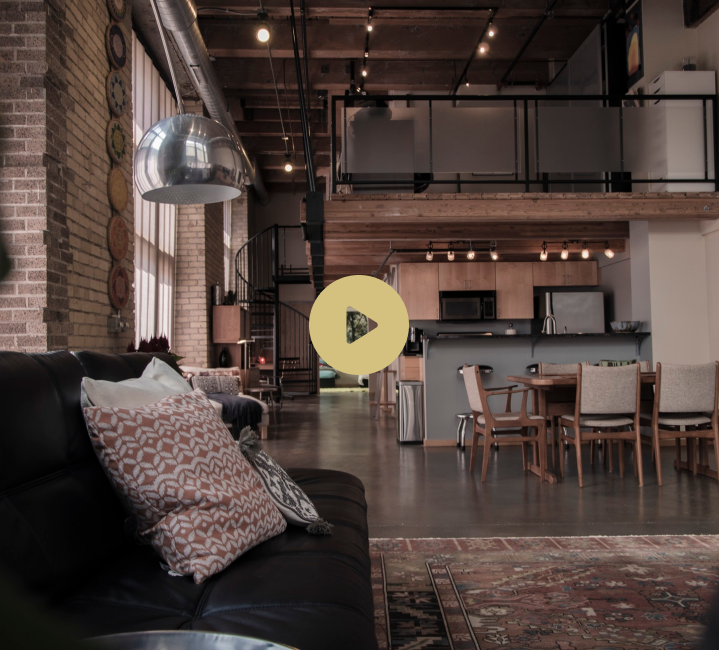
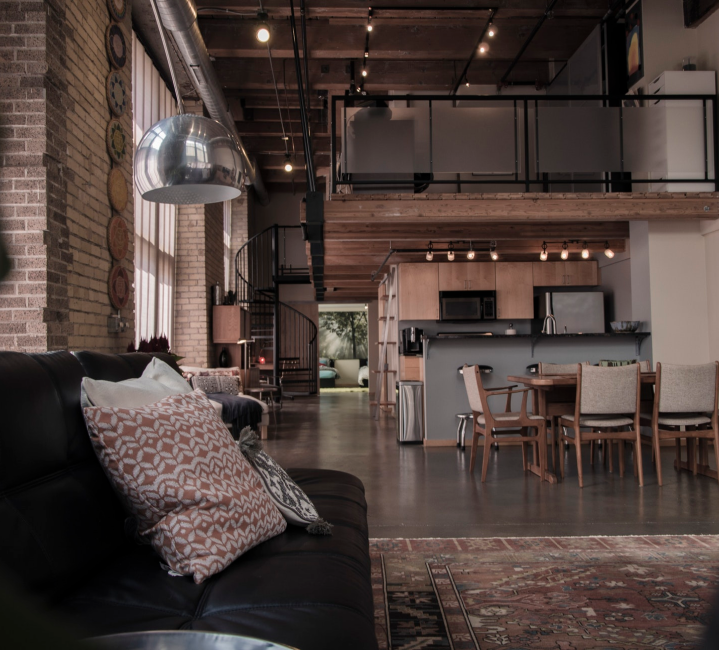
feat: added a section with a video

Changed region(s): [[0.4284, 0.4, 0.5814, 0.5846]]

diff --git a/index.html b/index.html
@@ -165,7 +165,7 @@
 			<div class="col-md-6">
 				<h2>Хотите посмотреть?</h2>
 				<p>ЖК HauseVOP отвечает всем современным системам безопасности. Для вашего спокойного проживания продуманы IP-домофония, камеры круглосуточного наблюдения с распознаванием лиц.
-					Стильное и надежное ограждение позволит вам расслабиться и не переживать за детей или оставленные игрушки во дворе.
+					
 				</p>
 			</div>
 			<div class="col-md-6">
@@ -192,7 +192,24 @@
 			</div>
 		</div>
 		</div>
-
 	</section>
+	<!--/cta section-->
+	<section id="video" class="section">
+		<div class="container">
+			<div class="row">
+				<div class="col-md-8 offset-md-2">
+					<a class="link_unstyled" href="#">
+						<div class="video">
+							<img src="img/video.png" alt="" class="video_preview">
+						</div>
+					</a>
+				</div>
+			</div>
+		</div>
+		<div class="section_number section_number_right section_number_middle">
+			IV
+		</div>
+	</section>
+	<!--/video section-->
 </body>
 </html>

diff --git a/css/components/other.css b/css/components/other.css
@@ -44,9 +44,6 @@
 .room:hover:before{
 	height: 0%;
 }
-.room_photo{
-	
-}
 
 .room_title{
 	position: absolute;
@@ -66,7 +63,7 @@
 
 .form_item{
 	width: calc( 50% - 15px);
-	margin-bottom: 35px;
+	margin-bottom: 50px;
 }
 
 .form-control{
@@ -86,3 +83,43 @@
 .form-control::placeholder{
 	color: #BEBEBE;
 }
+
+.video{
+	position: relative;
+}
+
+.video:before{
+	content: '';
+	position: absolute;
+	left: 0;
+	top: 0;
+	width: 100%;
+	height: 100%;
+	background-color: #242B33;
+	opacity: .8;
+	transition: all .09s ease-out;
+}
+
+.video:after{
+	content: '';
+	width: 100px;
+	height: 100px;
+	position: absolute;
+	top: 50%;
+	left: 50%;
+	transform: translate(-50%, -50%);
+	background-image: url('../../img/icons/Vector.svg');
+	background-size: 100px;
+	background-repeat: no-repeat;
+	background-position: center;
+	transition: all .09s ease-out;
+}
+
+.video:hover:before{
+	opacity: 0.4;
+}
+
+.video:hover:after{
+	transform: translate(-50%, -50%) scale(1.09); /*when hovering, it increases*/
+}
+

diff --git a/css/components/section.css b/css/components/section.css
@@ -28,6 +28,11 @@
 	left: unset;
 }
 
+.section_number_middle{
+	top: 50%;
+	transform: translateY(-50%);
+}
+
 #facts{
 	padding: 120px 0;
 }
